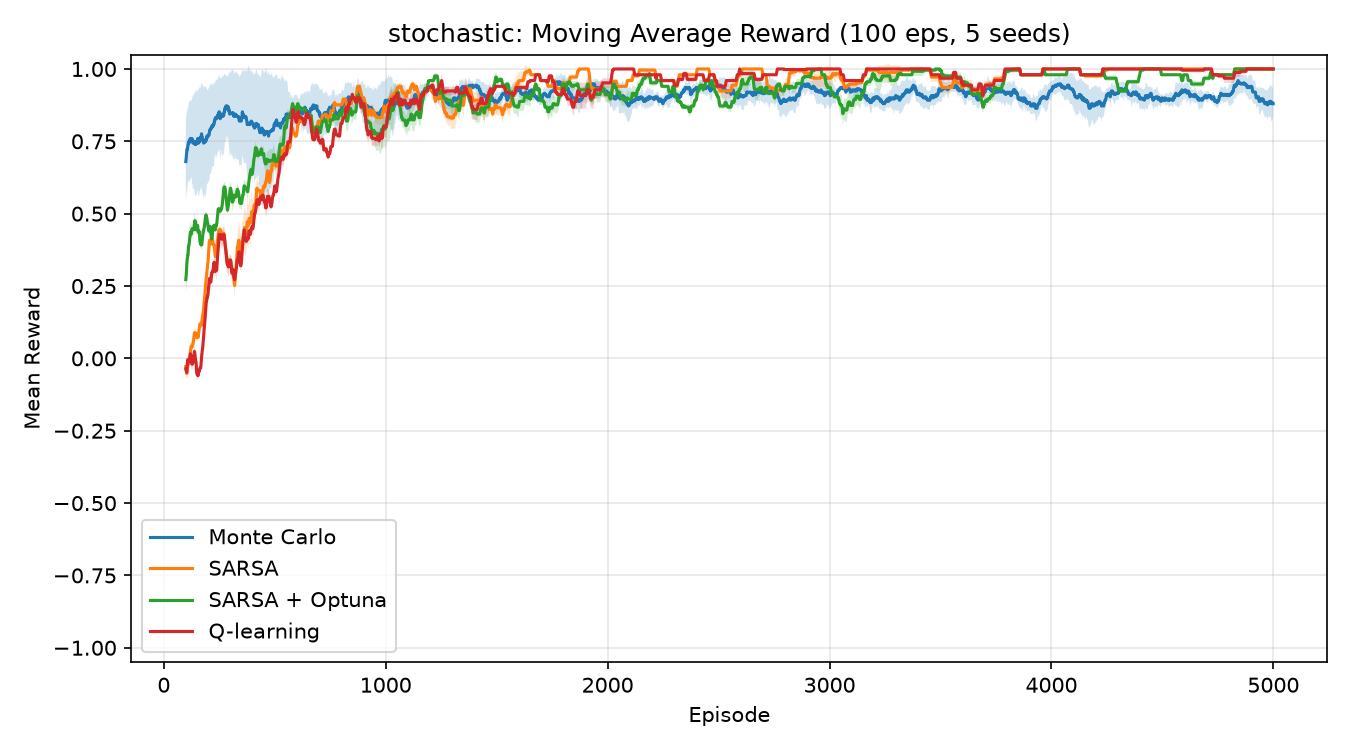
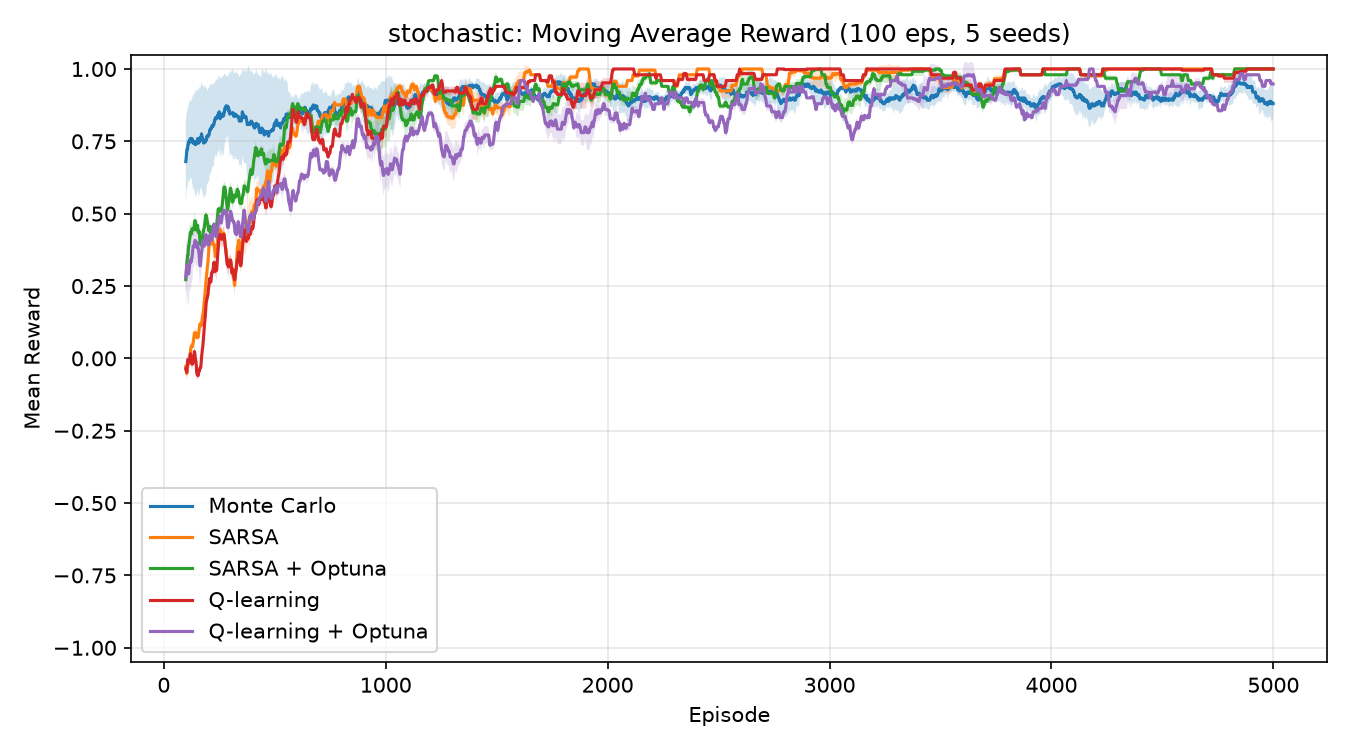
optuna_qlearning

diff --git a/optimization.py b/optimization.py
@@ -8,6 +8,7 @@ from pathlib import Path
 
 from env import GridworldEnv
 from SARSA import train_sarsa
+from Q_learning import train_q_learning
 from td_learning import evaluate_policy, show_policy
 
 TUNE_ENV = GridworldEnv(is_slippery=True)   
@@ -35,7 +36,90 @@ def objective(trial):
     return mean_return
 
 
+
+def objective_q_learning(trial):
+    alpha = trial.suggest_float("alpha", 0.01, 0.5, log=True)
+    gamma = trial.suggest_float("gamma", 0.90, 0.999)
+    epsilon_start = trial.suggest_float("epsilon_start", 0.3, 1.0)
+    epsilon_min = trial.suggest_float("epsilon_min", 0.01, 0.10)
+    epsilon_decay = trial.suggest_float("epsilon_decay", 0.995, 0.9999)
+
+    eps_min = min(epsilon_min, epsilon_start)
+
+    Q, rewards, successes = train_q_learning(
+        TUNE_ENV,
+        episodes=FIXED_EPISODES,
+        alpha=alpha,
+        gamma=gamma,
+        epsilon_start=epsilon_start,
+        epsilon_min=eps_min,
+        epsilon_decay=epsilon_decay,
+        max_steps=200,
+        seed=30
+    )
+
+    success_rate, mean_return, _ = evaluate_policy(
+        Q, TUNE_ENV, episodes=500,
+        max_steps=200, seed=20_000
+    )
+
+    trial.set_user_attr("success_rate", success_rate)
+    print(
+        f"Trial {trial.number:3d}: "
+        f"success={success_rate:.1%} return={mean_return:.4f}"
+    )
+
+    return mean_return
+
+
+def optimize_q_learning():
+    study = optuna.create_study(
+        direction="maximize",
+        sampler=optuna.samplers.TPESampler(seed=30)
+    )
+
+    study.optimize(objective_q_learning, n_trials=50)
+
+    print("\nMejor resultado de Q-learning:", study.best_value)
+    print("Mejores hiperparámetros:", study.best_params)
+
+    p = study.best_params
+    best_params = {
+        **p,
+        "epsilon_min": min(p["epsilon_min"], p["epsilon_start"])
+    }
+
+    with open("best_q_learning_params.json", "w", encoding="utf-8") as f:
+        json.dump(best_params, f, indent=4)
+
+    Q, rewards, successes = train_q_learning(
+        TUNE_ENV,
+        episodes=FIXED_EPISODES,
+        alpha=p["alpha"],
+        gamma=p["gamma"],
+        epsilon_start=p["epsilon_start"],
+        epsilon_min=best_params["epsilon_min"],
+        epsilon_decay=p["epsilon_decay"],
+        max_steps=200,
+        seed=2026
+    )
+
+    sr, ret, _ = evaluate_policy(
+        Q, TUNE_ENV, episodes=500,
+        max_steps=200, seed=20_000
+    )
+
+    print(f"Reevaluación Q-learning: success={sr:.1%} return={ret:.4f}")
+    show_policy(Q, "Q-learning (Optuna, stochastic)")
+
+    study.trials_dataframe().to_csv(
+        "results_optuna_q_learning_stochastic.csv",
+        index=False
+    )
+
+
 def main():
+    #  SARSA 
     study = optuna.create_study(
         direction="maximize",
         sampler=optuna.samplers.TPESampler(seed=30)
@@ -86,6 +170,77 @@ def main():
         from optuna.visualization.matplotlib import plot_optimization_history
         plot_optimization_history(study)
         plt.tight_layout(); plt.show()
+    except Exception as exc:
+        print(f"Can not show the Optuna graphic: {exc}")
+    
+    #  Q-LEARNING 
+
+    print("\n" + "=" * 60)
+    print("OPTIMIZACIÓN DE Q-LEARNING")
+    print("=" * 60)
+
+    study_q = optuna.create_study(
+        direction="maximize",
+        sampler=optuna.samplers.TPESampler(seed=30)
+    )
+    study_q.optimize(objective_q_learning, n_trials=50)
+
+    print("\n" + "=" * 60)
+    print(f"Best return: {study_q.best_value:.4f}")
+    print("Best params:")
+    for k, v in study_q.best_params.items():
+        print(f"    {k}: {v}")
+
+    p_q = study_q.best_params
+
+    # Guardar los mejores hiperparámetros para run_experiments.py
+    best_params_q = {
+        **p_q,
+        "epsilon_min": min(p_q["epsilon_min"], p_q["epsilon_start"]),
+    }
+
+    with open("best_q_learning_params.json", "w", encoding="utf-8") as f:
+        json.dump(best_params_q, f, indent=4)
+
+    print("Saved hyperparameters in best_q_learning_params.json")
+
+    Q, rewards, successes = train_q_learning(
+        TUNE_ENV,
+        episodes=FIXED_EPISODES,
+        alpha=p_q["alpha"],
+        gamma=p_q["gamma"],
+        epsilon_start=p_q["epsilon_start"],
+        epsilon_min=min(p_q["epsilon_min"], p_q["epsilon_start"]),
+        epsilon_decay=p_q["epsilon_decay"],
+        max_steps=200,
+        seed=2026
+    )
+
+    sr, ret, _ = evaluate_policy(
+        Q, TUNE_ENV, episodes=500, max_steps=200, seed=20_000
+    )
+    print(f"\nRe-evaluación: success={sr:.1%}  return={ret:.4f}")
+    show_policy(Q, "Q-learning (Optuna, stochastic)")
+
+    study_q.trials_dataframe().to_csv(
+        "results_optuna_q_learning_stochastic.csv", index=False
+    )
+
+    window = 100
+    ma = np.convolve(rewards, np.ones(window) / window, mode="valid")
+    plt.figure(figsize=(9, 4))
+    plt.plot(ma)
+    plt.title(f"Q-learning optimized: Moving average Reward ({window})")
+    plt.xlabel("Episode")
+    plt.ylabel("Mean reward")
+    plt.tight_layout()
+    plt.show()
+
+    try:
+        from optuna.visualization.matplotlib import plot_optimization_history
+        plot_optimization_history(study_q)
+        plt.tight_layout()
+        plt.show()
     except Exception as exc:
         print(f"Can not show the Optuna graphic: {exc}")
 

diff --git a/run_experiments.py b/run_experiments.py
@@ -33,16 +33,20 @@ def moving_average(x, w=WINDOW):
 def main():
     os.makedirs(OUT, exist_ok=True)
 
-    params_path = Path("best_sarsa_params.json")
+    sarsa_params_path = Path("best_sarsa_params.json")
+    q_learning_params_path = Path("best_q_learning_params.json")
 
-    if not params_path.exists():
+    if not sarsa_params_path.exists() or not q_learning_params_path.exists():
         raise FileNotFoundError(
-            "Can't find best_sarsa_params.json. "
-            "First execute optimizacion.py."
+            "Not found best_sarsa_params.json and best_q_learning_params.json."
         )
 
-    with params_path.open("r", encoding="utf-8") as f:
+    with sarsa_params_path.open("r", encoding="utf-8") as f:
         best_params = json.load(f)
+
+    with q_learning_params_path.open("r", encoding="utf-8") as f:
+        best_q_learning_params = json.load(f)
+
     rows = []
 
     for tag, slippery in (("deterministic", False), ("stochastic", True)):
@@ -88,6 +92,17 @@ def main():
 
             "Q-learning": lambda sd: train_q_learning(
                 env, gamma=GAMMA, seed=sd
+            )[:2],
+
+            "Q-learning + Optuna": lambda sd: train_q_learning(
+                env,
+                episodes=5000,
+                alpha=best_q_learning_params["alpha"],
+                gamma=best_q_learning_params["gamma"],
+                epsilon_start=best_q_learning_params["epsilon_start"],
+                epsilon_min=best_q_learning_params["epsilon_min"],
+                epsilon_decay=best_q_learning_params["epsilon_decay"],
+                seed=sd,
             )[:2],
         }
 
